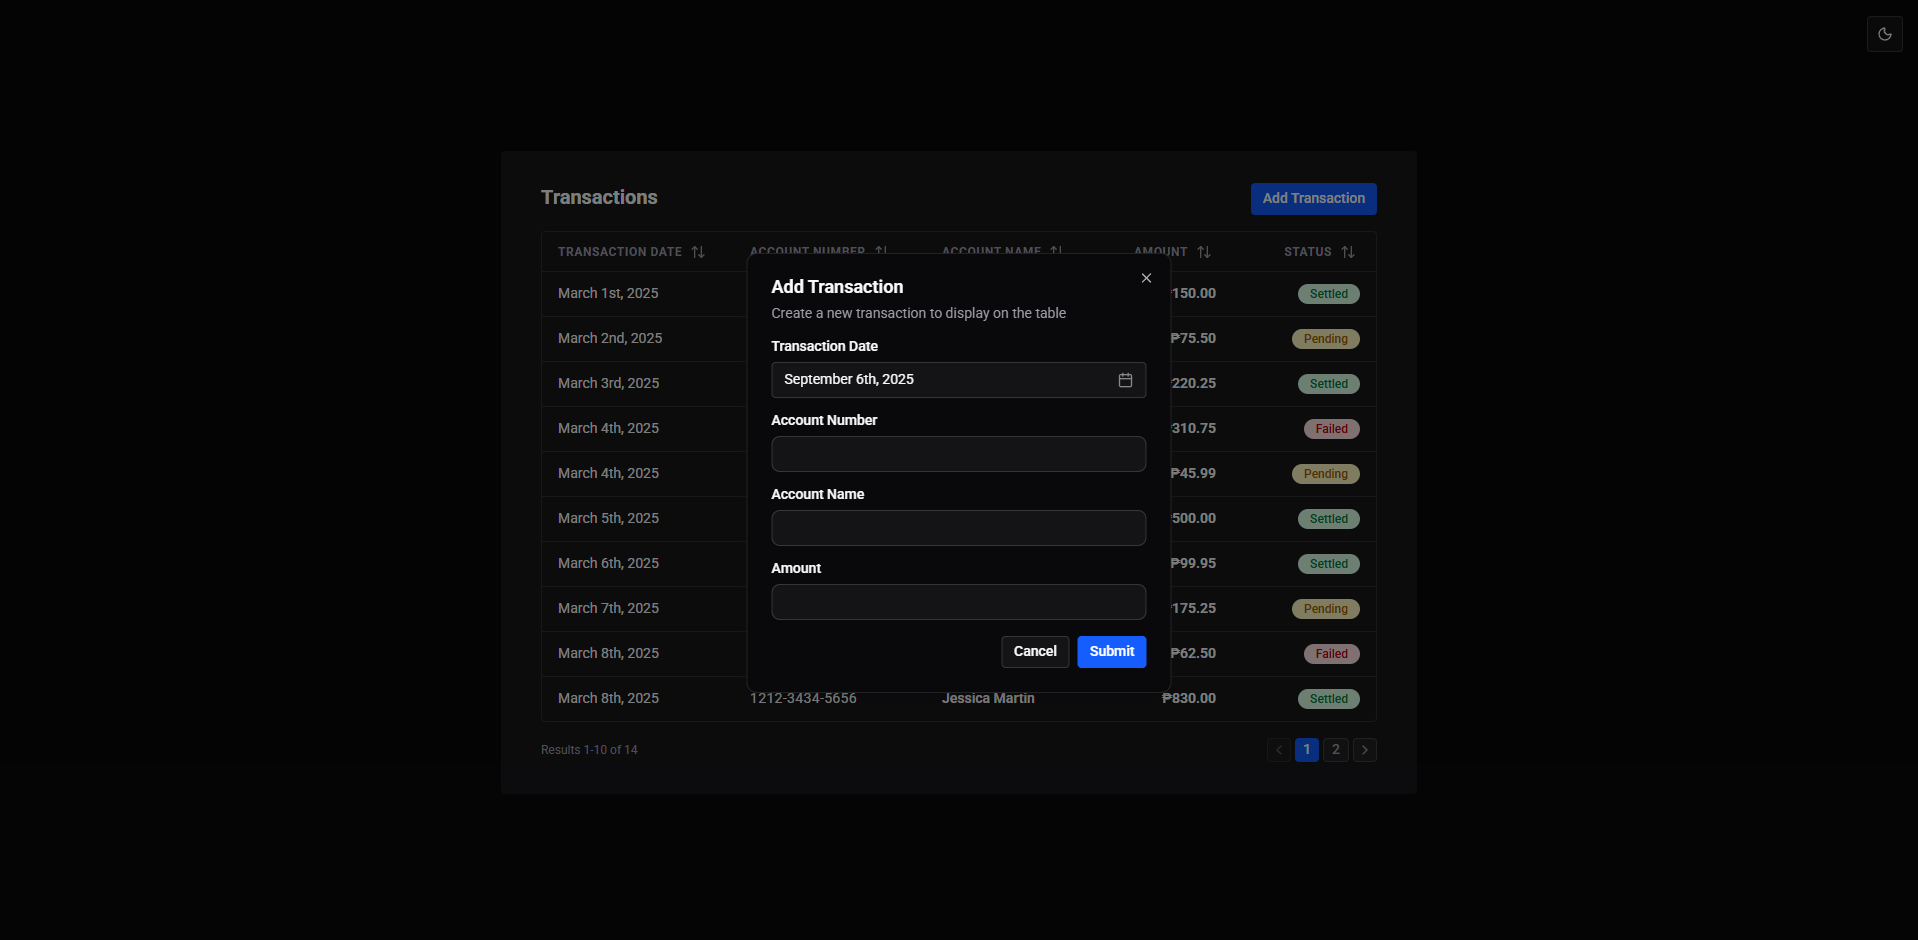
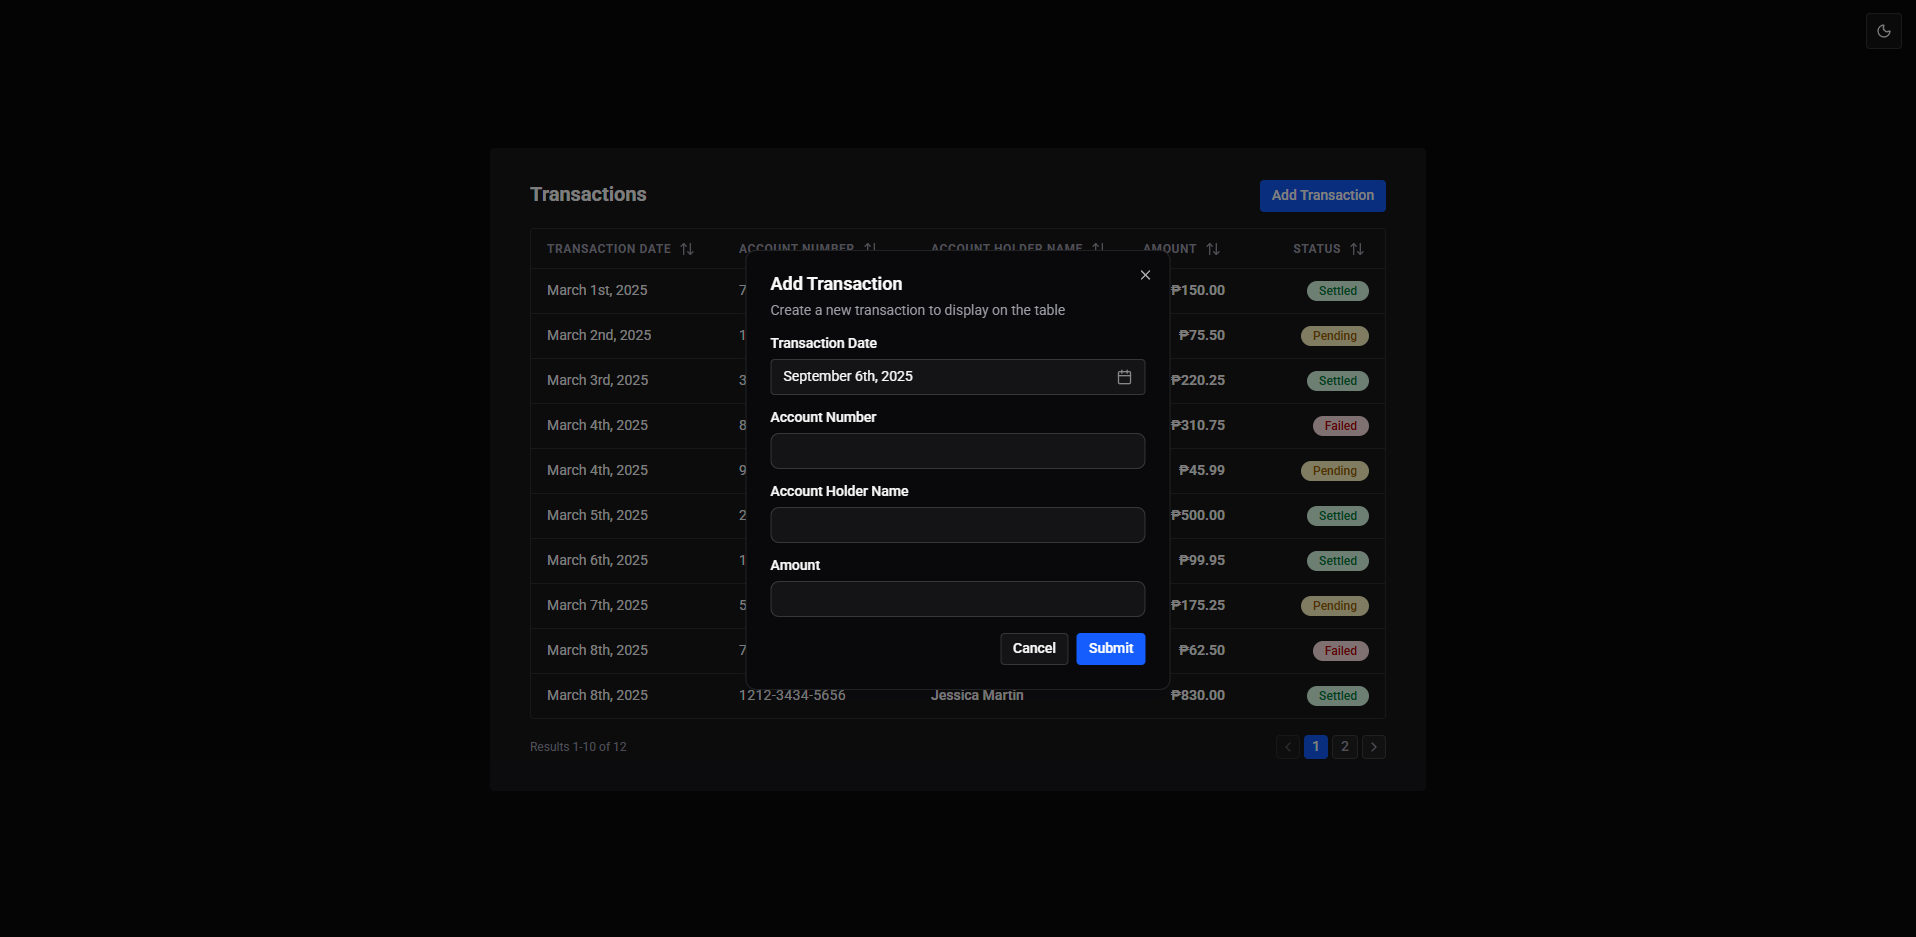
update account name to account holder name

diff --git a/frontend/src/app/routes/transactions/__tests__/Transactions.test.tsx b/frontend/src/app/routes/transactions/__tests__/Transactions.test.tsx
@@ -28,10 +28,10 @@ describe("Transactions page tests", () => {
     });
 
     it("should render Transactions table", async () => {
-        const accountName = await within(desktopSection).findByText(
+        const accountHolderName = await within(desktopSection).findByText(
             "Test User"
         );
-        expect(accountName).toBeInTheDocument();
+        expect(accountHolderName).toBeInTheDocument();
     });
 
     it("should have Add Transaction button", async () => {
@@ -111,22 +111,23 @@ describe("Transaction form tests", () => {
         ).not.toBeInTheDocument();
     });
 
-    it("should throw an error when account name is empty", async () => {
+    it("should throw an error when account holder name is empty", async () => {
         const submitButton = screen.getByRole("button", { name: /Submit/i });
         await userEvent.click(submitButton);
 
         expect(
-            await screen.findByText(/Account name is required/i)
+            await screen.findByText(/Account holder name is required/i)
         ).toBeInTheDocument();
     });
 
-    it("should accept correct account name", async () => {
+    it("should accept correct account holder name", async () => {
         const submitButton = screen.getByRole("button", { name: /Submit/i });
-        const accountNameInput = screen.getByLabelText(/Account Name/i);
-        await userEvent.type(accountNameInput, "test");
+        const accountHolderNameInput =
+            screen.getByLabelText(/Account Holder Name/i);
+        await userEvent.type(accountHolderNameInput, "test");
         await userEvent.click(submitButton);
         expect(
-            screen.queryByText(/Account Name is required/i)
+            screen.queryByText(/Account Holder Name is required/i)
         ).not.toBeInTheDocument();
     });
 
@@ -169,7 +170,7 @@ describe("Transaction form tests", () => {
             "111122223333"
         );
         await userEvent.type(
-            screen.getByLabelText(/Account Name/i),
+            screen.getByLabelText(/Account Holder Name/i),
             "Test User Two"
         );
         await userEvent.type(screen.getByLabelText(/Amount/i), "100");
@@ -238,7 +239,7 @@ describe("Transactions page tests with empty state and errors", () => {
             "111122223333"
         );
         await userEvent.type(
-            screen.getByLabelText(/Account Name/i),
+            screen.getByLabelText(/Account Holder Name/i),
             "Fail User"
         );
         await userEvent.type(screen.getByLabelText(/Amount/i), "100");

diff --git a/backend/src/middleware/validateTransaction.js b/backend/src/middleware/validateTransaction.js
@@ -10,7 +10,8 @@ export const validateTransaction = (req, res, next) => {
     // Required fields validation
     if (!transactionDate) return sendError("Transaction date is required.");
     if (!accountNumber) return sendError("Account number is required.");
-    if (!accountHolderName) return sendError("Account name is required.");
+    if (!accountHolderName)
+        return sendError("Account holder name is required.");
     if (amount === undefined || amount === null)
         return sendError("Amount is required.");
 

diff --git a/frontend/src/features/transactions/components/TransactionForm.tsx b/frontend/src/features/transactions/components/TransactionForm.tsx
@@ -109,7 +109,7 @@ export const TransactionForm = ({ form }: TransactionFormProps) => {
                     name="accountHolderName"
                     render={({ field }) => (
                         <FormItem>
-                            <FormLabel>Account Name</FormLabel>
+                            <FormLabel>Account Holder Name</FormLabel>
                             <FormControl>
                                 <Input {...field} />
                             </FormControl>

diff --git a/backend/src/services/__tests__/transactionService.test.js b/backend/src/services/__tests__/transactionService.test.js
@@ -32,7 +32,9 @@ describe("Transaction service tests", () => {
                 accountHolderName: "Jane Doe",
                 amount: 200,
             })
-        ).toThrow("Account number is linked with a different account name.");
+        ).toThrow(
+            "Account number is linked with a different account holder name."
+        );
     });
 
     it("should append new row and returns object with addTransaction", () => {

diff --git a/frontend/src/features/transactions/components/Columns.tsx b/frontend/src/features/transactions/components/Columns.tsx
@@ -71,7 +71,7 @@ export const columns: ColumnDef<Transaction>[] = [
         accessorKey: "accountHolderName",
         header: ({ column }) => (
             <div className="min-w-40 flex items-center gap-1">
-                <span className="">ACCOUNT NAME</span>
+                <span className="">ACCOUNT HOLDER NAME</span>
                 <Button
                     variant={"ghost"}
                     className="h-6 w-6"

diff --git a/frontend/src/features/transactions/types.ts b/frontend/src/features/transactions/types.ts
@@ -3,7 +3,7 @@ import { z } from "zod";
 // Used for creating transaction
 export const NewTransactionSchema = z.object({
     transactionDate: z.date("Invalid date."),
-    accountHolderName: z.string().min(1, "Account name is required."),
+    accountHolderName: z.string().min(1, "Account holder name is required."),
     accountNumber: z
         .string()
         .regex(/^\d{12}$/, "Account number must be 12 digits."),

diff --git a/frontend/src/features/transactions/components/Card.tsx b/frontend/src/features/transactions/components/Card.tsx
@@ -44,7 +44,7 @@ export const Card = ({ transaction }: CardProps) => {
                 </p>
             </div>
             <div>
-                <p className="text-sm font-medium">Account Name</p>
+                <p className="text-sm font-medium">Account Holder Name</p>
                 <p className="">{transaction.accountHolderName}</p>
             </div>
             <div>

diff --git a/backend/src/services/transactionService.js b/backend/src/services/transactionService.js
@@ -35,7 +35,7 @@ export const addTransaction = ({
 
     if (existing && existing.accountHolderName !== accountHolderName) {
         const error = new Error(
-            "Account number is linked with a different account name."
+            "Account number is linked with a different account holder name."
         );
         error.status = 400;
         throw error;

diff --git a/backend/src/app.test.js b/backend/src/app.test.js
@@ -61,7 +61,7 @@ describe("API integration tests", () => {
         expect(res.status).toBe(400);
         expect(res.body).toHaveProperty(
             "message",
-            "Account number is linked with a different account name."
+            "Account number is linked with a different account holder name."
         );
     });
 });
